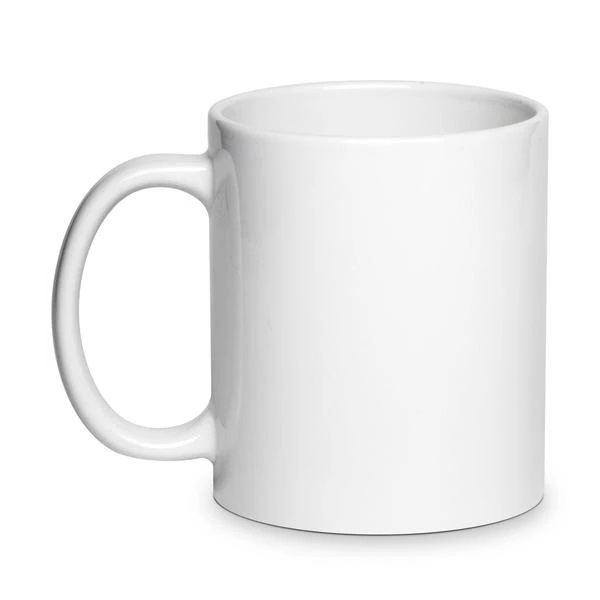
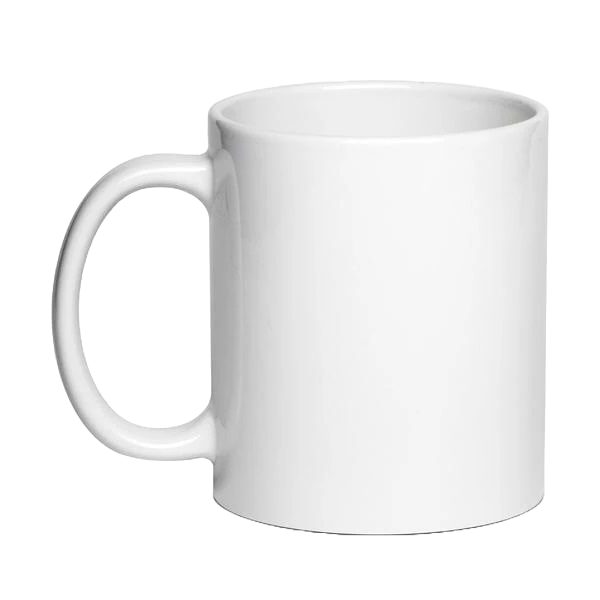
US-104 IMP: Removed background from images & better styling product page

Changed region(s): [[0.36, 0.84, 0.93, 0.93]]

diff --git a/productpage.php b/productpage.php
@@ -43,90 +43,72 @@ $stockItem = getStockItem($id, $databaseConnection);
 $stockItemImage = getStockItemImage($id, $databaseConnection, $stockItem['BackupImagePath']);
 ?>
 
-
-<div class="container mx-auto p-8">
-
-    <?php 
-        if(isset($status) && isset($succesfull)) {
+<main class="relative flex flex-col items-center justify-start w-full overflow-hidden min-h-screen bg-gradient-to-b from-gray-800 to-black --geist-foreground:#000">
+    <div class="container mx-auto p-8 text-white">
+        <?php
+        if (isset($status) && isset($succesfull)) {
             include 'Components/Productpage/message.php';
         }
-    ?>
-
-    <?php if (isset($stockItem['Video'])) { ?>
-        <div class="mb-8 h-72">
-            <?php print($stockItem['Video']); ?>
-        </div>
-    <?php } ?>
-
-    <div class="grid grid-cols-1 md:grid-cols-2 lg:grid-cols-3 gap-8">
-
-        <!-- Product Images -->
-        <div class="col-span-1 md:col-span-2 lg:col-span-1">
-            <div id="controls-carousel" class="relative" data-carousel="static">
-                <div class="relative h-96 overflow-hidden rounded-lg bg-gradient-to-b from-gray-800 to-gray-900">
-                    <?php for ($i = 0; $i < count($stockItemImage); $i++) { ?>
-                        <img src="<?php echo $stockItemImage[$i]['ImagePath']; ?>" class="w-full h-full object-cover" alt="<?php print($stockItem['StockItemName']); ?>">
+        ?>
+        <?php if (isset($stockItem['Video'])) { ?>
+            <div class="mb-8 h-96">
+                <?php print($stockItem['Video']); ?>
+            </div>
+        <?php } ?>
+        <div class="grid grid-cols-1 md:grid-cols-2 lg:grid-cols-3 gap-8">
+            <div class="col-span-1 md:col-span-2 lg:col-span-1">
+                <div id="controls-carousel" class="relative overflow-hidden">
+                    <div class="h-96 bg-gradient-to-b from-gray-800 to-gray-900">
+                        <?php foreach ($stockItemImage as $image) { ?>
+                            <img src="<?php echo $image['ImagePath']; ?>" class="w-full h-full object-cover" alt="<?php print($stockItem['StockItemName']); ?>">
+                        <?php } ?>
+                    </div>
+                </div>
+            </div>
+            <div class="col-span-1 md:col-span-1 lg:col-span-1">
+                <h1 class="font-bold text-3xl mb-2"><?php echo $stockItem['StockItemName']; ?></h1>
+                <h2 class="mb-4 text-xl">Artikelnummer: <?php echo $stockItem["StockItemID"]; ?></h2>
+                <p class="mb-2"><?php printf("€ %.2f", $stockItem['SellPrice']) ?> <b>Inclusief BTW</b></p>
+                <p class="mb-4 text-green-500"><?php print(getVoorraadTekst($stockItem["QuantityOnHand"])); ?></p>
+                <form class="bg-gray-800 mt-5 p-4 rounded-lg" method="POST" action="productpage.php?id=<?php print($stockItem["StockItemID"]); ?>">
+                    <div class="flex items-center mb-4">
+                        <input type="hidden" name="articleid" value="<?php print($id); ?>">
+                        <input class="border rounded-md px-3 py-2 w-full text-black bg-white focus:outline-none" type="number" id="amount" name="amount" value="<?php print($amount); ?>" min="0" max="<?php print($stockItem['QuantityOnHand'] > 100 ? 100 : $stockItem['QuantityOnHand']); ?>">
+                    </div>
+                    <input type="submit" value="In winkelwagen" class="bg-blue-500 text-white px-6 py-2 rounded-md w-full hover:bg-blue-600 focus:outline-none transform transition-transform hover:scale-103" />
+                </form>
+            </div>
+            <div class="col-span-1">
+                <div id="productDescription" class="pt-5">
+                    <h2 class="font-bold text-2xl mb-2">Product beschrijving</h2>
+                    <p class="mb-4"><?php echo $stockItem['SearchDetails']; ?></p>
+                </div>
+                <div id="stockSpecs" class="pt-5">
+                    <h2 class="font-bold text-2xl mb-2">Product specificaties</h2>
+                    <?php
+                    $customFields = json_decode($stockItem['CustomFields'], true);
+                    if (is_array($customFields)) {
+                    ?>
+                        <ul class="list-disc pl-4">
+                            <?php foreach ($customFields as $specName => $specText) { ?>
+                                <?php
+                                $specNameTranslated = isset($lang->stockSpecs->$specName) ? $lang->stockSpecs->$specName : $specName;
+                                if (!is_array($specText)) {
+                                    echo "<li>{$specNameTranslated}: {$specText}</li>";
+                                } else if (count($specText) > 0) {
+                                    echo "<li>{$specNameTranslated}: ";
+                                    foreach ($specText as $specTextItem) {
+                                        echo "{$specTextItem} ";
+                                    }
+                                    echo "</li>";
+                                }
+                                ?>
+                            <?php } ?>
+                        </ul>
                     <?php } ?>
                 </div>
             </div>
         </div>
-
-        <div class="col-span-1 md:col-span-1 lg:col-span-1 text-white">
-
-            <h1 class="font-bold text-3xl mb-2"><?php echo $stockItem['StockItemName']; ?></h1>
-            <h2 class="mb-4 text-xl">Artikelnummer: <?php echo $stockItem["StockItemID"]; ?></h2>
-            <p class="mb-2"><?php printf("€ %.2f", $stockItem['SellPrice']) ?> <b>Inclusief BTW</b></p>
-            <p class="mb-4"><?php print(getVoorraadTekst($stockItem["QuantityOnHand"])); ?></p>
-
-            <form class="bg-gray-800 mt-5 p-4 rounded-lg" method="POST" action="productpage.php?id=<?php print($stockItem["StockItemID"]); ?>">
-                <div class="flex items-center mb-4">
-                    <input type="hidden" name="articleid" value="<?php print($id); ?>">
-                    <input
-                        class="border rounded-md px-3 py-2 w-full text-black bg-white focus:outline-none"
-                        type="number"
-                        id="amount"
-                        name="amount"
-                        value="<?php print($amount); ?>"
-                        min="0"
-                        max="<?php print($stockItem['QuantityOnHand'] > 100 ? 100 : $stockItem['QuantityOnHand']); ?>"
-                    >
-                </div>
-                <input type="submit" value="In winkelwagen" class="bg-blue-500 text-white px-6 py-2 rounded-md w-full hover:bg-blue-600 focus:outline-none"/>
-            </form>
-        </div>
-
-        <div class="col-span-1 text-white">
-
-            <div id="productDescription">
-                <h2 class="font-bold text-2xl mb-2">Product beschrijving</h2>
-                <p class="mb-4"><?php echo $stockItem['SearchDetails']; ?></p>
-            </div>
-
-            <div id="stockSpecs" class="pt-5">
-                <h2 class="font-bold text-2xl mb-2">Product specificaties</h2>
-                <?php
-                $customFields = json_decode($stockItem['CustomFields'], true);
-                if (is_array($customFields)) {
-                ?>
-                    <ul class="list-disc pl-4 dark">
-                        <?php foreach ($customFields as $specName => $specText) { ?>
-                            <?php
-                            $specNameTranslated = isset($lang->stockSpecs->$specName) ? $lang->stockSpecs->$specName : $specName;
-                            if (!is_array($specText)) {
-                                
-                                echo "<li>{$specNameTranslated }: {$specText}</li>";
-                            } else if(count($specText) > 0) {
-                                echo "<li>{$specNameTranslated}: ";
-                                foreach ($specText as $specTextItem) {
-                                    echo "{$specTextItem} ";
-                                }
-                                echo "</li>";
-                            }
-                            ?>
-                        <?php } ?>
-                    </ul>
-                <?php } ?>
-            </div>
-        </div>
     </div>
-</div>
+</main>
+

diff --git a/Components/Productpage/message.php b/Components/Productpage/message.php
@@ -1,4 +1,4 @@
-<div id="alert-1" class="flex items-center p-4 mb-4 rounded-lg bg-gray-800 text-blue-400" role="alert">
+<div id="alert-1" class="flex items-center p-4 mb-4 rounded-lg bg-gray-700 text-blue-400" role="alert">
     <svg class="flex-shrink-0 w-4 h-4" aria-hidden="true" xmlns="http://www.w3.org/2000/svg" fill="currentColor" viewBox="0 0 20 20">
         <path d="M10 .5a9.5 9.5 0 1 0 9.5 9.5A9.51 9.51 0 0 0 10 .5ZM9.5 4a1.5 1.5 0 1 1 0 3 1.5 1.5 0 0 1 0-3ZM12 15H8a1 1 0 0 1 0-2h1v-3H8a1 1 0 0 1 0-2h2a1 1 0 0 1 1 1v4h1a1 1 0 0 1 0 2Z"/>
     </svg>
